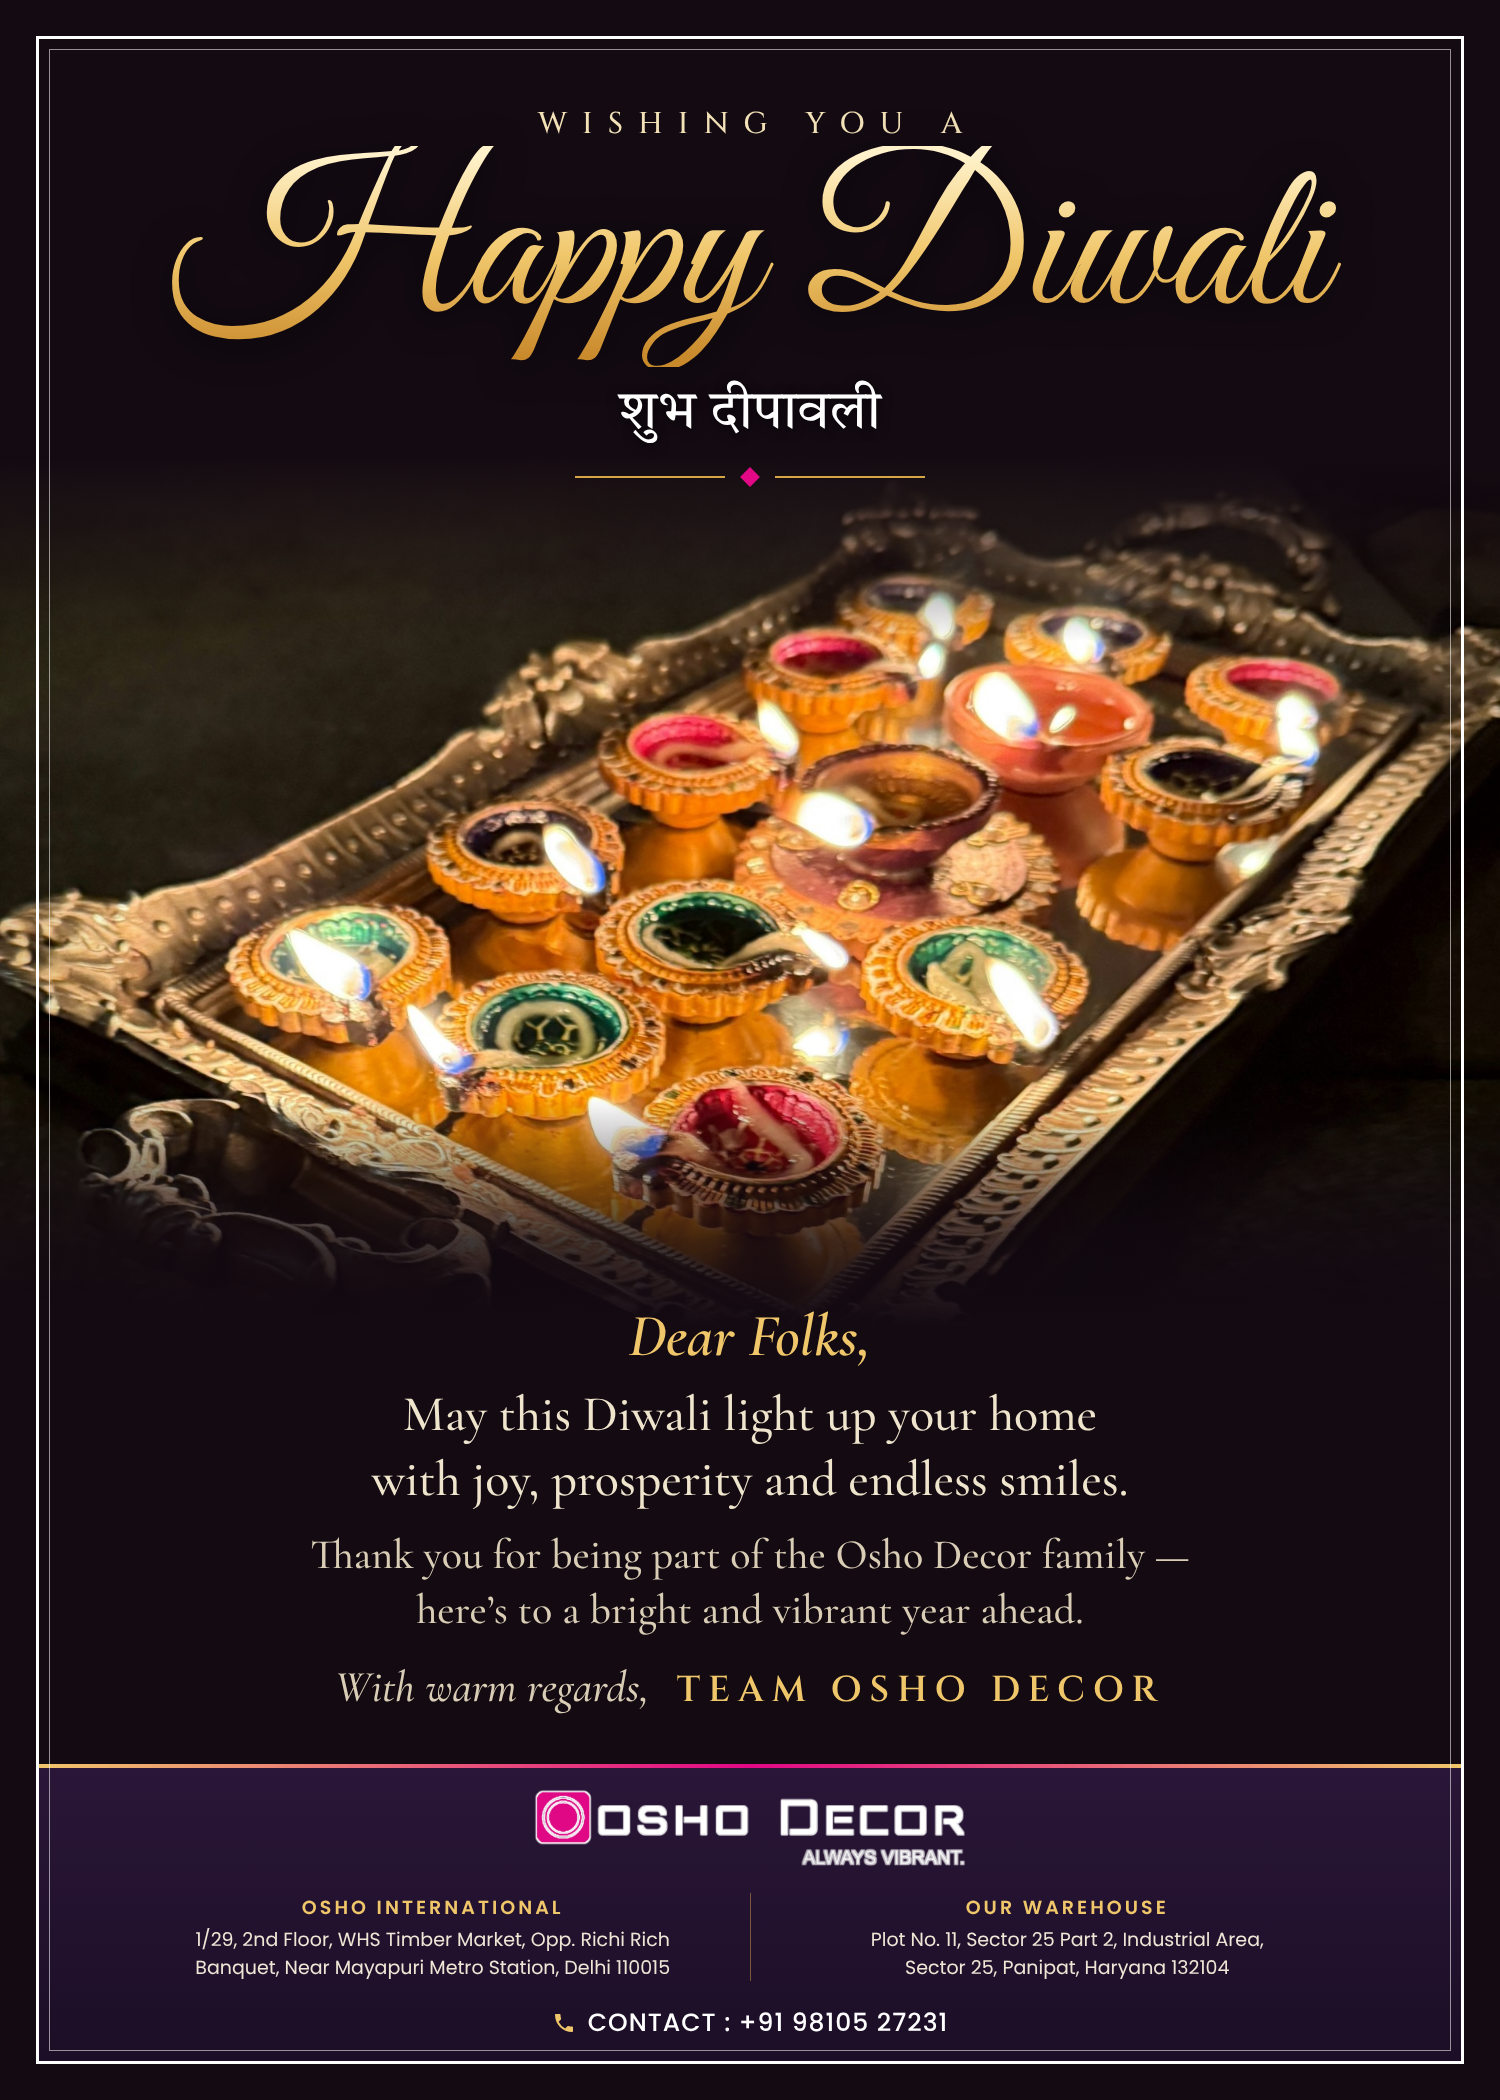
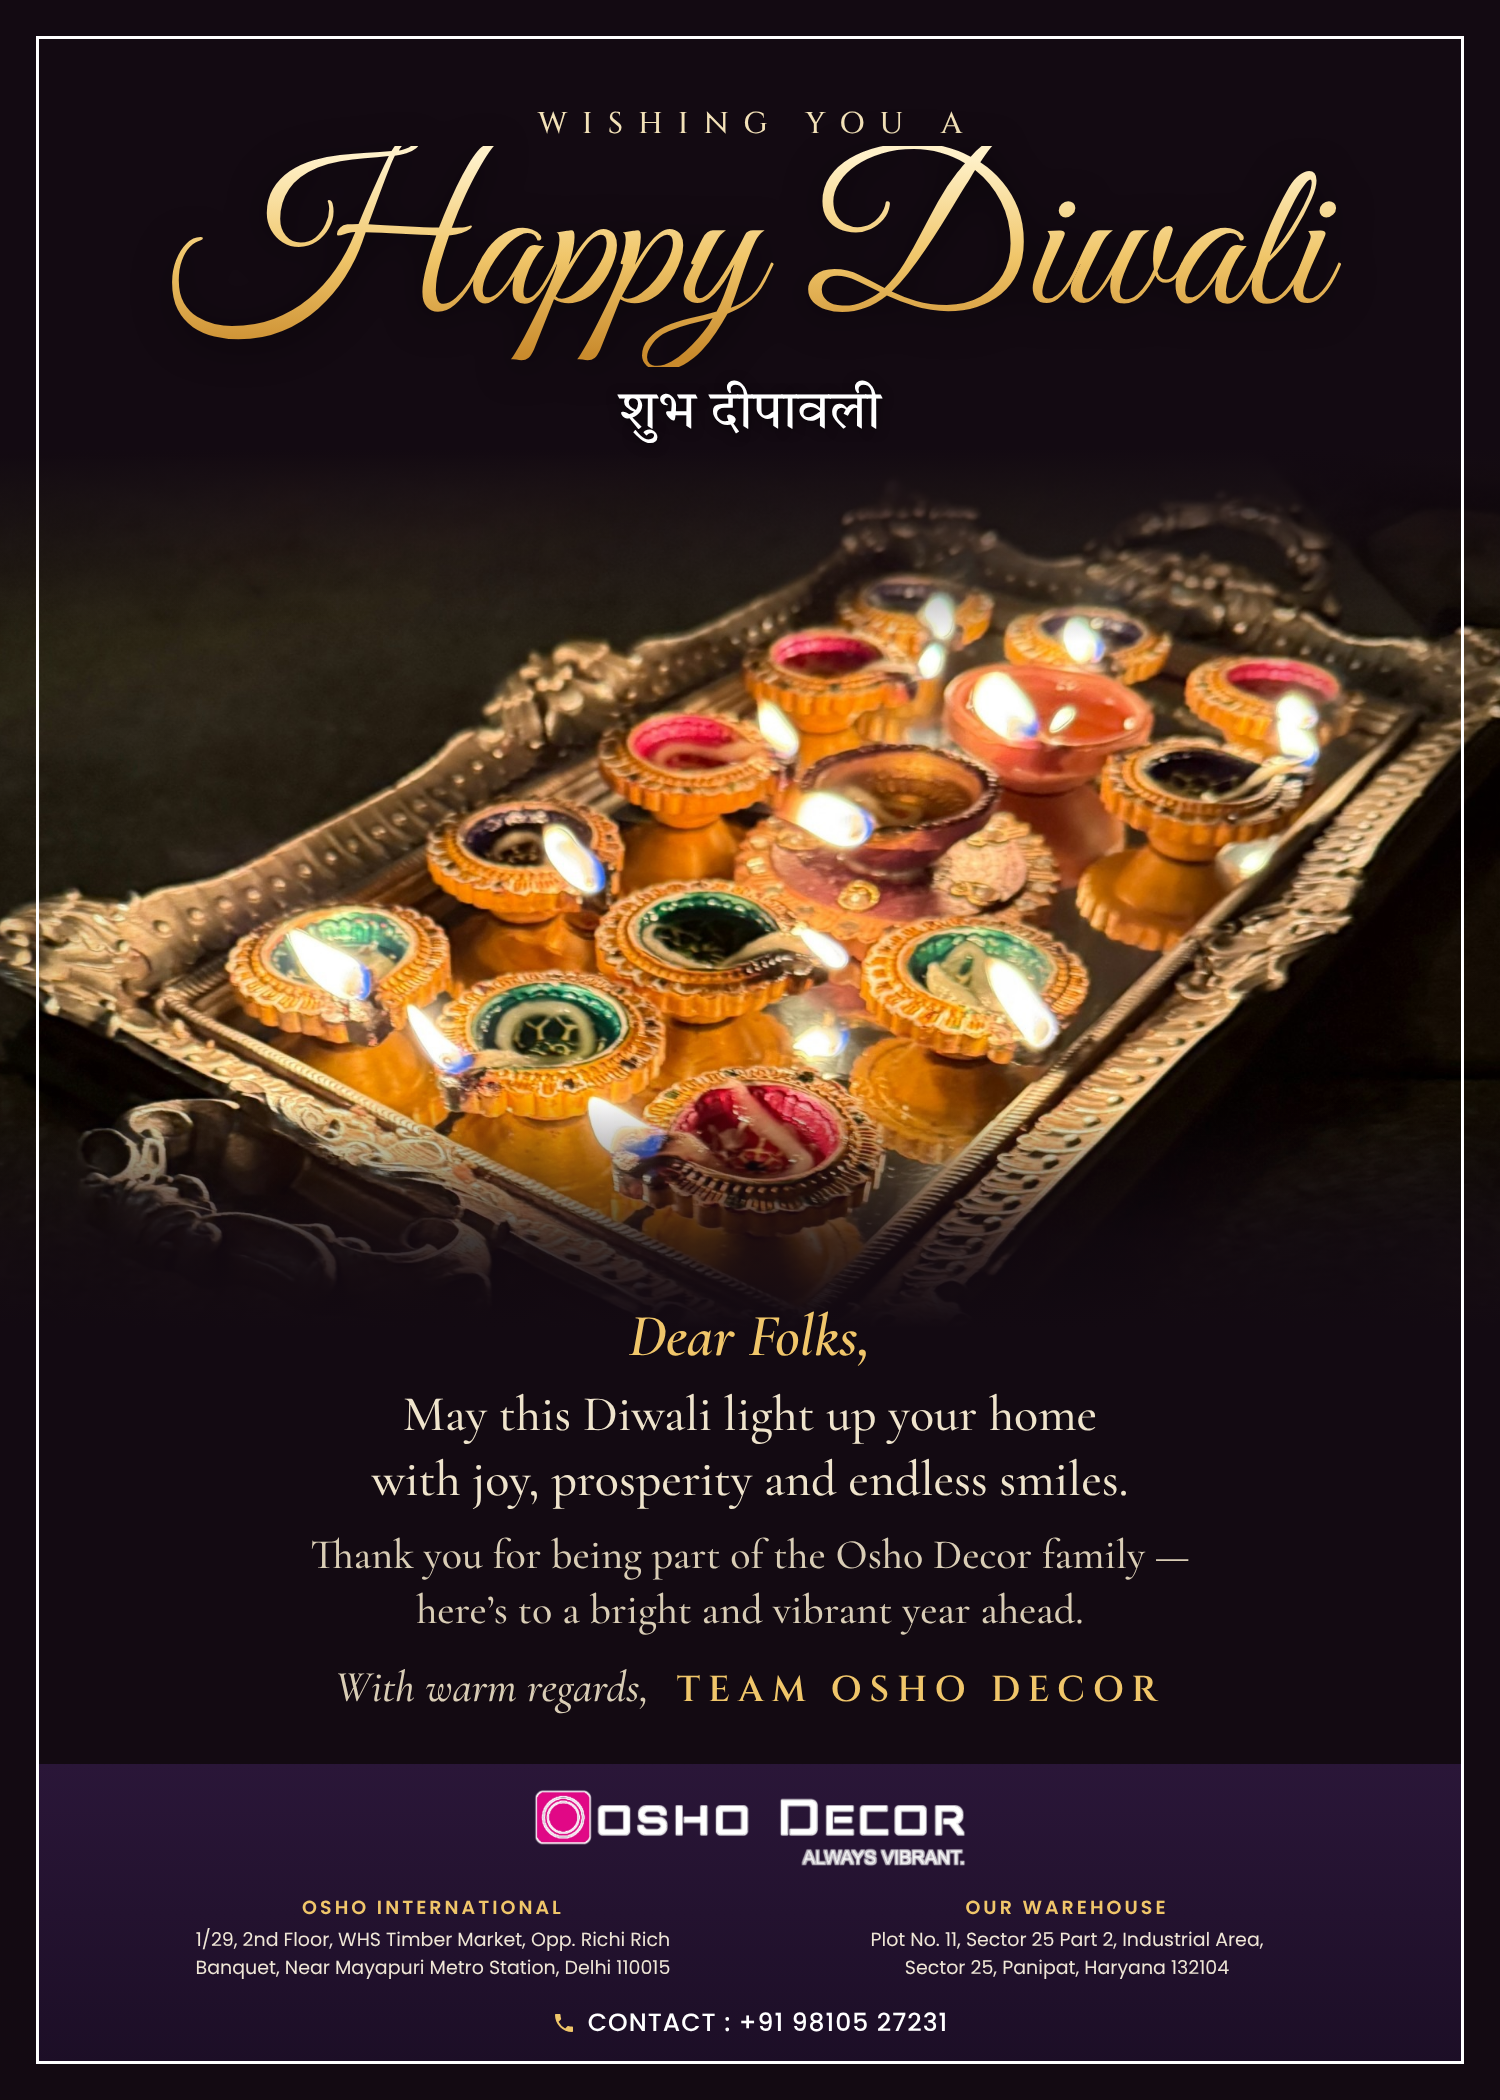
Diwali card 4: single white border, no dividers or separator lines
Claude-Session: https://claude.ai/code/session_0139BuMiDbbgguFwkEm73kW5

Changed region(s): [[0.3067, 0.8976, 0.3373, 0.9286]]

diff --git a/festival-posts/diwali-card-4.html b/festival-posts/diwali-card-4.html
@@ -33,7 +33,6 @@ body{background:#777}
 
 /* gold keyline over the whole card */
 .frame{position:absolute;inset:36px;border:3px solid #FFFFFF;pointer-events:none}
-.frame:after{content:"";position:absolute;inset:10px;border:1px solid rgba(255,255,255,.55)}
 
 .layer{position:absolute;left:0;right:0;text-align:center}
 .kicker{font-family:Cinzel;font-weight:500;font-size:30px;letter-spacing:.5em;margin-right:-.5em;color:#F3E2B8}
@@ -55,9 +54,8 @@ body{background:#777}
 
 .band{position:absolute;left:36px;right:36px;bottom:36px;height:300px;display:flex;flex-direction:column;justify-content:space-evenly;align-items:center;
   background:linear-gradient(180deg,#2A1638,#1C0E26);text-align:center;color:#EFE6D6}
-.band:before{content:"";position:absolute;left:0;right:0;top:0;height:4px;background:linear-gradient(90deg,var(--gold-l),var(--pink),var(--gold-l))}
 .band .logo{height:84px}
-.band .cols{display:grid;grid-template-columns:1fr 1px 1fr;gap:44px;text-align:center;width:1180px}
+.band .cols{display:grid;grid-template-columns:1fr 1fr;gap:88px;text-align:center;width:1180px}
 .band .rule{background:rgba(231,176,74,.45)}
 .band h6{font-weight:600;font-size:19px;letter-spacing:.16em;color:var(--gold-l);margin-bottom:4px}
 .band p{font-size:19px;line-height:1.45}
@@ -73,7 +71,6 @@ body{background:#777}
   <div class="layer" style="top:104px"><div class="kicker">WISHING YOU A</div></div>
   <div class="layer" style="top:146px"><div class="script">Happy Diwali</div></div>
   <div class="layer" style="top:382px"><div class="hi">शुभ दीपावली</div></div>
-  <div class="layer" style="top:470px"><div class="divider"><i></i><b></b><i></i></div></div>
   <div class="layer letter" id="msg">
     <div class="dear">Dear Folks,</div>
     <p>May this Diwali light up your home<br>with joy, prosperity and endless smiles.</p>
@@ -85,7 +82,6 @@ body{background:#777}
     <img class="logo" src="assets/osho-decor-logo-white.png" alt="Osho Decor">
     <div class="cols">
       <div><h6>OSHO INTERNATIONAL</h6><p>1/29, 2nd Floor, WHS Timber Market, Opp. Richi Rich<br>Banquet, Near Mayapuri Metro Station, Delhi 110015</p></div>
-      <div class="rule"></div>
       <div><h6>OUR WAREHOUSE</h6><p>Plot No. 11, Sector 25 Part 2, Industrial Area,<br>Sector 25, Panipat, Haryana 132104</p></div>
     </div>
     <div class="contact"><svg viewBox="0 0 24 24"><path fill="#F0C66A" d="M6.6 10.8a15.1 15.1 0 0 0 6.6 6.6l2.2-2.2c.3-.3.7-.4 1-.2 1.1.4 2.3.6 3.6.6.6 0 1 .4 1 1V20c0 .6-.4 1-1 1A17 17 0 0 1 3 4c0-.6.4-1 1-1h3.5c.6 0 1 .4 1 1 0 1.3.2 2.5.6 3.6.1.3 0 .7-.2 1z"/></svg><span>CONTACT : +91 98105 27231</span></div>
